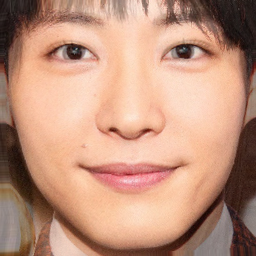
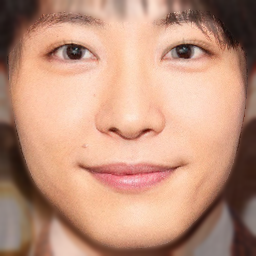
add bokeh affect

diff --git a/main.py b/main.py
@@ -2,7 +2,7 @@ import cv2
 import dlib
 import numpy as np
 from scipy.ndimage import map_coordinates
-from PIL import Image, ImageDraw
+from PIL import Image, ImageDraw, ImageFilter
 from tqdm import tqdm
 
 landmark_dict = {
@@ -16,6 +16,29 @@ landmark_dict = {
     "lips_outer": np.arange(48, 60),
     "face": np.arange(0, 17),
 }
+
+def get_face_silhouette():
+    lines = []
+    lines_face = np.stack([landmark_dict["face"][:-1], landmark_dict["face"][1:]]).T
+    lines.append(lines_face)
+    lines.append(np.array([16, 26]).reshape(1, 2)) # join face and right eyebrow
+    lines_right_eyebrow = np.stack([landmark_dict["right_eyebrow"][::-1][:-1], landmark_dict["right_eyebrow"][::-1][1:]]).T
+    lines.append(lines_right_eyebrow)
+    lines.append(np.array([22, 21]).reshape(1, 2))
+    lines_left_eyebrow = np.stack([landmark_dict["left_eyebrow"][::-1][:-1], landmark_dict["left_eyebrow"][::-1][1:]]).T
+    lines.append(lines_left_eyebrow)
+    lines.append(np.array([17, 0]).reshape(1, 2))
+    lines = np.concatenate(lines)
+    return lines
+
+def get_face_outline_coordinates(landmarks):
+    facial_landmark_ids = [
+        *landmark_dict["face"],
+        *landmark_dict["right_eyebrow"][::-1],
+        *landmark_dict["left_eyebrow"][::-1]
+    ]
+    return landmarks[facial_landmark_ids]
+
 
 def get_landmark_lines():
     lines = []
@@ -37,7 +60,7 @@ def shape_to_np(shape, dtype="int"):
 	# return the list of (x, y)-coordinates
 	return np.array(coords)
 
-def draw_landmarks(img, lines_start, lines_end, landmarks, path, pts=None):
+def draw_landmarks(img, lines_start, lines_end, landmarks, path):
     img = Image.fromarray(img)
     canvas = ImageDraw.Draw(img)
     # draw landmark points
@@ -149,22 +172,52 @@ def get_intermidate_lines(P_1, Q_1, P_2, Q_2, alpha = 0.5):
     Q = Q_1 * alpha + Q_2 * (1 - alpha)
     return P, Q
 
-def warp_and_merge(img_1, P_1, Q_1, img_2, P_2, Q_2, alpha):
+def get_intermediate_face_outline(face1, face2, alpha = 0.5):
+    return face1 * alpha + face2 * (1 - alpha)
+
+def get_face_mask(face_outline, image_size):
+    face_x = list(face_outline[:, 0])
+    face_y = list(face_outline[:, 1])
+    mask = Image.new("RGB", (image_size, image_size))
+    canvas = ImageDraw.Draw(mask)
+    canvas.polygon(list(zip(face_x, face_y)), fill = (255, 255, 255))
+    mask = np.array(mask) * 1.0 / 255
+    return mask
+
+def compute_bokeh_image(face, mask):
+    blurred = Image.fromarray(face).filter(ImageFilter.GaussianBlur(2))
+    blurred = np.array(blurred)
+    res = face * mask + blurred * (1 - mask)
+    res = res.astype(np.uint8)
+    return res
+
+def warp_and_merge(img_1, P_1, Q_1, img_2, P_2, Q_2, alpha, face_mask = None):
     P_inter, Q_inter = get_intermidate_lines(P_1, Q_1, P_2, Q_2, alpha)
     warped_1 = warp_from_source(img_1, P_1, Q_1, P_inter, Q_inter)
     warped_2 = warp_from_source(img_2, P_2, Q_2, P_inter, Q_inter)
     merged = warped_1 * alpha + warped_2 * (1 - alpha)
     merged = merged.astype(np.uint8)
+    if face_mask is not None:
+        merged = compute_bokeh_image(merged, face_mask)
     return merged
 
-def warp_sequence(img_1, P_1, Q_1, img_2, P_2, Q_2, steps=10):
-    warp_sequence = []
-    for alpha in np.linspace(0, 1.0, steps):
-        merged = warp_and_merge(color_img_1, P_1, Q_1, color_img_2, P_2, Q_2, alpha)
-        warp_sequence.append(merged)
-    return warp_sequence
+def warp_sequence(
+    img_1, P_1, Q_1, 
+    img_2, P_2, Q_2, steps=10, 
+    face1_outline = None, face2_outline = None
+):
+    assert (face1_outline is None) == (face2_outline is None)
 
-    
+    warp_sequence = []
+    for alpha in tqdm(np.linspace(0, 1.0, steps)):
+        if face1_outline is not None:
+            face_mask = get_face_mask(
+                get_intermediate_face_outline(face1_outline, face2_outline, alpha), img_1.shape[0])
+        else:
+            face_mask = None
+        merged = warp_and_merge(color_img_1, P_1, Q_1, color_img_2, P_2, Q_2, alpha, face_mask)
+        warp_sequence.append(Image.fromarray(merged))
+    return warp_sequence
 
 
 predictor_path = "pretrained/shape_predictor_68_face_landmarks.dat"
@@ -184,9 +237,15 @@ img_2, color_img_2 = crop_resize_from_feature_points(image_path_2, detector, pre
 P_1, Q_1, landmarks_1 = get_line_start_and_end(img_1, detector, predictor)
 P_2, Q_2, landmarks_2  = get_line_start_and_end(img_2, detector, predictor)
 
+face1_outline = get_face_outline_coordinates(landmarks_1)
+face2_outline = get_face_outline_coordinates(landmarks_2)
 
-alpha = 0.5
 
-morphed = warp_and_merge(color_img_1, P_1, Q_1, color_img_2, P_2, Q_2, 0.5)
-Image.fromarray(morphed).save("warped.png")
+draw_landmarks(color_img_1, P_1, Q_1, landmarks_1, "images/1.png")
+draw_landmarks(color_img_2, P_2, Q_2, landmarks_2, "images/2.png")
+
+seq = warp_sequence(color_img_1, P_1, Q_1, color_img_2, P_2, Q_2, 10, face1_outline, face2_outline)
+seq[0].save("sequence.gif", save_all=True, append_images=seq[1:], duration=5, loop=0)
+
+
 
